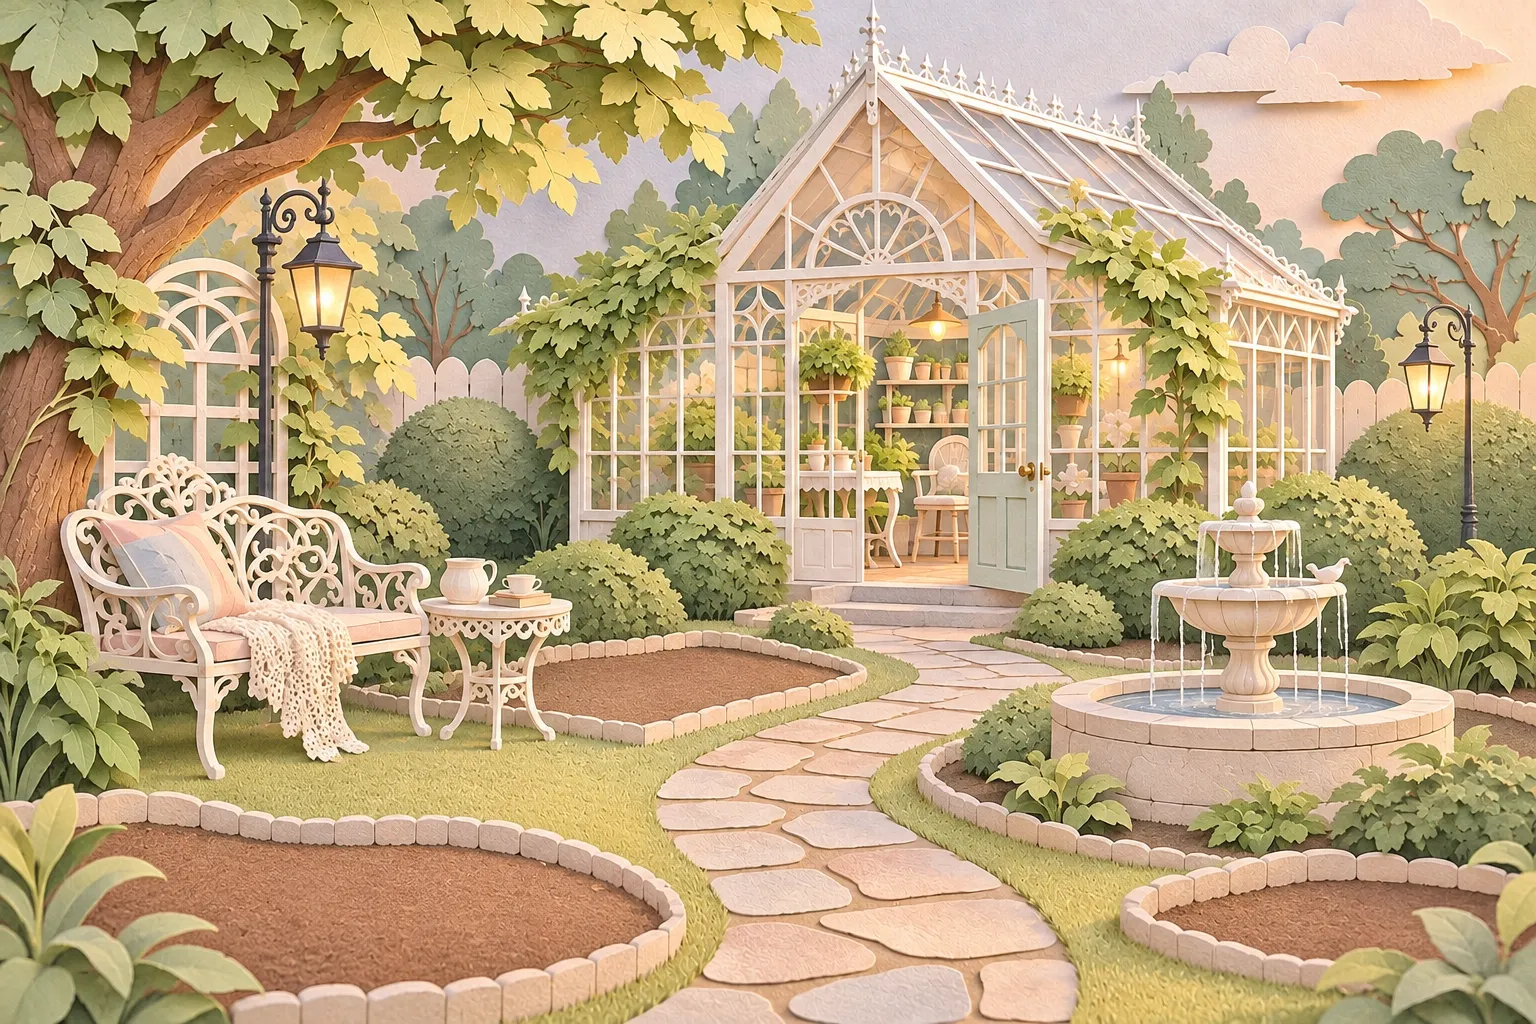
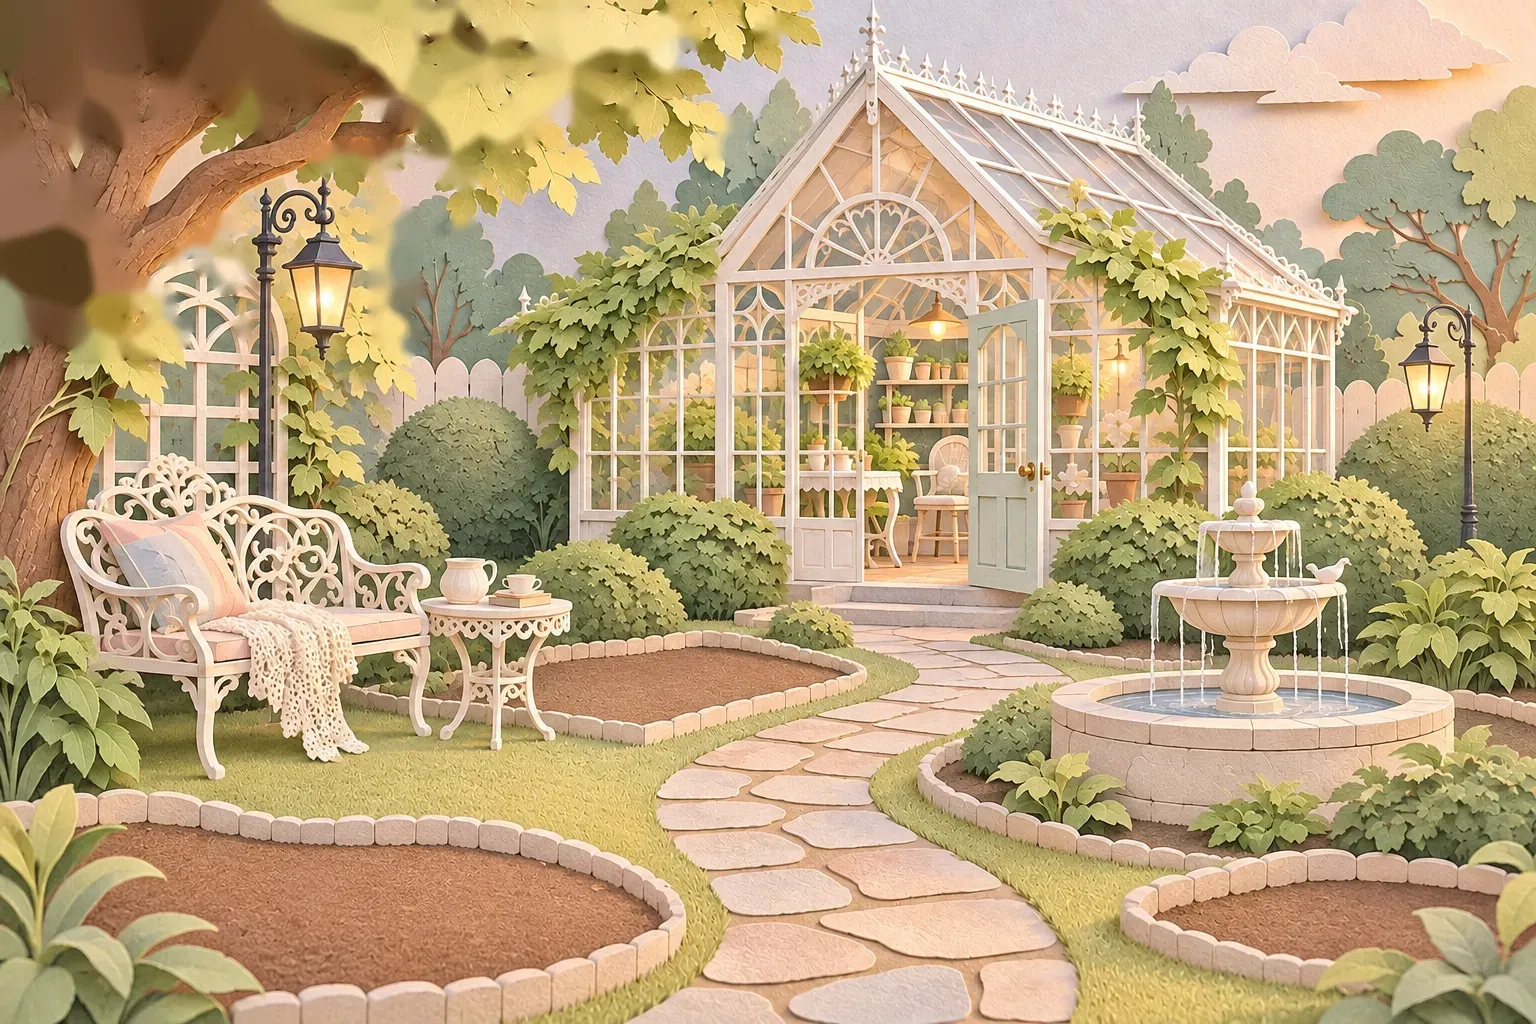
大樹樹冠分四叢各自擺動，背景補色去除疊影
Claude-Session: https://claude.ai/code/session_015p85XBWVqjkFtHRQgipjj8

diff --git a/src/GardenScene.tsx b/src/GardenScene.tsx
@@ -100,7 +100,10 @@ export default function GardenScene({ store }: { store: Store }) {
       <div className="scene-scroll" ref={scroller} onScroll={() => { if (ready.current && hint) setHint(false) }}>
         <div className={'scene' + (night ? ' night' : '')} role="img" aria-label={`我的花園，${phaseName(m)}，種了 ${planted.length} 叢花`}>
           <img className="scene-bg" src="garden/backdrop.webp" alt="" draggable={false} />
-          <img className="scene-tree" src="garden/tree.webp" alt="" draggable={false} style={{ left: 0, top: 0, width: px(860), height: py(360) }} />
+          {/* 大樹的樹冠分成 4 叢，各自隨風擺動 */}
+          {[0, 1, 2, 3].map((k) => (
+            <img key={k} className={`scene-tree t${k}`} src={`garden/tree-${k}.webp`} alt="" draggable={false} style={{ left: 0, top: 0, width: px(860), height: py(360) }} />
+          ))}
           <img key={hasWisteria ? 'w1' : 'w0'} className={'scene-vines' + (hasWisteria ? ' bloomed' : '')} src={hasWisteria ? 'garden/vines-wisteria.webp' : 'garden/vines.webp'} alt="" draggable={false} style={{ left: px(480), top: py(170), width: px(280), height: py(310) }} />
           <img key={hasRose ? 'r1' : 'r0'} className={'scene-vines right' + (hasRose ? ' bloomed' : '')} src={hasRose ? 'garden/vines-rose.webp' : 'garden/vines-right.webp'} alt="" draggable={false} style={{ left: px(1020), top: py(150), width: px(280), height: py(370) }} />
           {sun && <img className="sun-img" src="garden/sun.webp" alt="" draggable={false} style={{ left: px(sun.x), top: py(sun.y), opacity: 1 - light.stars }} />}

diff --git a/src/style.css b/src/style.css
@@ -706,3 +706,13 @@ body:has(.garden-app) { background: var(--gp-bg); }
 .scene-tree { transform-origin: 10% 100%; animation: treeLeaves 7s ease-in-out infinite; }
 @keyframes treeLeaves { 0%, 100% { transform: rotate(-.35deg); } 50% { transform: rotate(.4deg); } }
 @media (prefers-reduced-motion: reduce) { .scene-tree { animation: none; } }
+
+/* 大樹：四叢葉子各自擺動（背景已補色，不會有疊影） */
+.scene-tree { transform-origin: 17% 92%; animation: leafA 5.2s ease-in-out infinite; will-change: transform; }
+.scene-tree.t0 { transform-origin: 4% 70%; animation: leafB 4.6s ease-in-out -1.1s infinite; }
+.scene-tree.t1 { transform-origin: 20% 60%; animation: leafA 5.4s ease-in-out -2.3s infinite; }
+.scene-tree.t2 { transform-origin: 34% 75%; animation: leafB 4.9s ease-in-out -.6s infinite; }
+.scene-tree.t3 { transform-origin: 40% 80%; animation: leafA 5.8s ease-in-out -3.4s infinite; }
+@keyframes leafA { 0%, 100% { transform: rotate(-1deg) translateX(-1px); } 50% { transform: rotate(1.1deg) translateX(2px); } }
+@keyframes leafB { 0%, 100% { transform: rotate(.9deg); } 45% { transform: rotate(-1.2deg) translateY(1px); } }
+@media (prefers-reduced-motion: reduce) { .scene-tree { animation: none !important; } }

diff --git a/scripts/garden-scene.py b/scripts/garden-scene.py
@@ -99,3 +99,27 @@ d = Image.fromarray(vis); dr = ImageDraw.Draw(d)
 for i, (x, y, s) in enumerate(order):
     dr.ellipse([x - 30 * s, y - 12 * s, x + 30 * s, y + 12 * s], outline=(255, 80, 80), width=3); dr.text((x - 6, y - 6), str(i), fill=(255, 255, 255))
 d.resize((768, 512)).save(sys.argv[3] if len(sys.argv) > 3 else out + '_spots_preview.png')
+
+# ---- 大樹：把樹冠分成幾叢各自擺動，並把背景裡原本的樹葉補成周圍的顏色，擺動時才不會出現疊影 ----
+import cv2
+tree = np.array(Image.open(out + 'tree.webp').convert('RGBA'))
+leafmask = ndimage.binary_opening(tree[..., 3] > 40, iterations=1)
+leafmask[170:360, 245:375] = False   # 路燈（發亮的黃色燈罩不是葉子）
+tree[..., 3] = (np.clip(ndimage.gaussian_filter(leafmask.astype(float), 0.7) * 1.4, 0, 1) * 255).astype(np.uint8)   # 葉子完全不透明
+alpha = tree[..., 3].astype(float)
+solid = leafmask
+lab, n = ndimage.label(alpha > 40)
+cents = ndimage.center_of_mass(alpha > 40, lab, range(1, n + 1))
+CLUSTERS = [lambda cx, cy: cx < 240 and cy > 140, lambda cx, cy: cx < 330 and cy <= 140,
+            lambda cx, cy: 330 <= cx < 520, lambda cx, cy: cx >= 520 or (cx >= 240 and cy > 140)]
+for k, rule in enumerate(CLUSTERS):
+    ids = [i + 1 for i, (cy, cx) in enumerate(cents) if rule(cx, cy)]
+    part = tree.copy()
+    part[..., 3] = np.where(np.isin(lab, ids), tree[..., 3], 0)
+    Image.fromarray(part, 'RGBA').save(out + f'tree-{k}.webp', quality=84, method=4)
+bd = np.array(Image.open(out + 'backdrop.webp').convert('RGB'))
+fill = np.zeros(bd.shape[:2], np.uint8)
+fill[:tree.shape[0], :tree.shape[1]] = ndimage.binary_dilation(solid, iterations=8).astype(np.uint8) * 255
+bd = cv2.inpaint(np.ascontiguousarray(bd[..., ::-1]), fill, 12, cv2.INPAINT_TELEA)[..., ::-1]
+Image.fromarray(bd).save(out + 'backdrop.webp', quality=80, method=4)
+print('tree clusters + backdrop inpainted')
